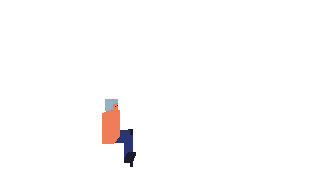
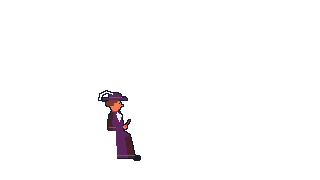
Ajout et test du Wagon 2

Changed region(s): [[0.2812, 0.5, 0.4375, 0.9444]]

diff --git a/index.html b/index.html
@@ -42,15 +42,22 @@
         <img class="wagon__calque wagon__personnage" src="assets/images/wagon-01/personnage-04.png" alt="Voyageur assis" data-nom="Paul" data-pensee="Duis aute irure dolor in reprehenderit.">
       </section>
 
-      <section class="wagon" data-titre="Dolor sit amet">
+      <!-- Wagon 02 : voiture-salon de 1re classe d'un train à vapeur (vers 1900).
+           Trois copies de la fumée, décalées dans le temps par main.js, pour un défilement continu.
+           Les lueurs des lampes sont posées sur l'intérieur, sous les voyageurs. -->
+      <section class="wagon" data-titre="Le Salon à vapeur">
+        <img class="wagon__calque wagon__fumee" src="assets/images/wagon-02/fumee.png" alt="">
+        <img class="wagon__calque wagon__fumee" src="assets/images/wagon-02/fumee.png" alt="">
+        <img class="wagon__calque wagon__fumee" src="assets/images/wagon-02/fumee.png" alt="">
         <img class="wagon__calque" src="assets/images/commun/passage.png" alt="">
         <img class="wagon__calque wagon__porte wagon__porte--gauche" src="assets/images/commun/porte-gauche.png" alt="">
         <img class="wagon__calque wagon__porte wagon__porte--droite" src="assets/images/commun/porte-droite.png" alt="">
-        <img class="wagon__calque" src="assets/images/wagon-02/interieur.png" alt="Intérieur du wagon, banquettes le long des parois">
-        <img class="wagon__calque wagon__personnage" src="assets/images/wagon-02/personnage-01.png" alt="Voyageur assis" data-nom="Lucie" data-pensee="Excepteur sint occaecat cupidatat non proident.">
-        <img class="wagon__calque wagon__personnage" src="assets/images/wagon-02/personnage-02.png" alt="Voyageur assis" data-nom="Hugo" data-pensee="Nemo enim ipsam voluptatem quia voluptas sit.">
-        <img class="wagon__calque wagon__personnage" src="assets/images/wagon-02/personnage-03.png" alt="Voyageur assis" data-nom="Rose" data-pensee="Neque porro quisquam est, qui dolorem ipsum.">
-        <img class="wagon__calque wagon__personnage" src="assets/images/wagon-02/personnage-04.png" alt="Voyageur assis" data-nom="Max" data-pensee="Quis autem vel eum iure reprehenderit.">
+        <img class="wagon__calque" src="assets/images/wagon-02/interieur.png" alt="Voiture-salon de luxe d'un train à vapeur : boiseries d'acajou, fauteuils de velours rouge, lampes à gaz">
+        <img class="wagon__calque wagon__lueur" src="assets/images/wagon-02/lueurs.png" alt="">
+        <img class="wagon__calque wagon__personnage" src="assets/images/wagon-02/personnage-01.png" alt="Monsieur en haut-de-forme" data-nom="Max" data-pensee="Quis autem vel eum iure reprehenderit.">
+        <img class="wagon__calque wagon__personnage" src="assets/images/wagon-02/personnage-02.png" alt="Dame au grand chapeau à plume" data-nom="Rose" data-pensee="Neque porro quisquam est, qui dolorem ipsum.">
+        <img class="wagon__calque wagon__personnage" src="assets/images/wagon-02/personnage-03.png" alt="Enfant en costume marin" data-nom="Lucie" data-pensee="Excepteur sint occaecat cupidatat non proident.">
+        <img class="wagon__calque wagon__personnage" src="assets/images/wagon-02/personnage-04.png" alt="Vieux monsieur à canne et monocle" data-nom="Hugo" data-pensee="Nemo enim ipsam voluptatem quia voluptas sit.">
       </section>
 
       <section class="wagon" data-titre="Consectetur">

diff --git a/js/main.js b/js/main.js
@@ -36,6 +36,15 @@ const VITESSE_ECRITURE = 0.025;
 // Respiration des voyageurs : intervalle aléatoire, en secondes
 const RESPIRATION_MIN = 2.5;
 const RESPIRATION_MAX = 5;
+// Fumée de la locomotive : temps pour qu'une bouffée passe du fond du paysage
+// jusqu'aux fenêtres les plus proches, en secondes, et agrandissement atteint à la fin
+const DUREE_FUMEE = 9;
+const ECHELLE_FUMEE = 3;
+// Lampes à gaz : opacité des halos (entre ces deux valeurs) et délai entre deux variations
+const LUEUR_MIN = 0.32;
+const LUEUR_MAX = 0.5;
+const LUEUR_DELAI_MIN = 0.08;
+const LUEUR_DELAI_MAX = 0.35;
 // Sans action pendant ce temps (en secondes), la porte clignote pour montrer où aller
 const DELAI_ATTENTE = 8;
 
@@ -612,6 +621,47 @@ function respirer(image) {
 }
 
 
+// Fumée de la locomotive : dans chaque wagon, les copies du calque wagon__fumee
+// s'agrandissent en boucle depuis le point de fuite, décalées dans le temps
+// pour qu'il y ait toujours des bouffées le long des fenêtres.
+// Chaque bouffée apparaît au loin, puis s'efface avant de sortir de l'écran.
+function lancerFumee() {
+  wagons.forEach((wagon) => {
+    const copies = wagon.querySelectorAll(".wagon__fumee");
+    copies.forEach((copie, i) => {
+      const passage = gsap.timeline({ repeat: -1 })
+        .fromTo(copie, { scale: 1 }, { scale: ECHELLE_FUMEE, duration: DUREE_FUMEE, ease: "power1.in" }, 0)
+        .fromTo(copie, { opacity: 0 }, { opacity: 1, duration: DUREE_FUMEE * 0.2, ease: "steps(3)" }, 0)
+        .to(copie, { opacity: 0, duration: DUREE_FUMEE * 0.3, ease: "steps(3)" }, DUREE_FUMEE * 0.7);
+      passage.progress(i / copies.length);
+    });
+  });
+}
+
+// Fumée immobile quand l'utilisateur préfère moins d'animations : une seule copie, visible.
+function poserFumee() {
+  wagons.forEach((wagon) => {
+    const copie = wagon.querySelector(".wagon__fumee");
+    if (copie) {
+      gsap.set(copie, { scale: 1.6, opacity: 1 });
+    }
+  });
+}
+
+// Flamme des lampes à gaz : l'opacité des halos varie un peu, sans cesse, par paliers.
+// lueur : élément img.wagon__lueur
+function vaciller(lueur) {
+  gsap.to(lueur, {
+    opacity: gsap.utils.random(LUEUR_MIN, LUEUR_MAX),
+    duration: 0.05,
+    ease: "steps(1)",
+    delay: gsap.utils.random(LUEUR_DELAI_MIN, LUEUR_DELAI_MAX),
+    onComplete: vaciller,
+    onCompleteParams: [lueur],
+  });
+}
+
+
 /* ==========================================================
    6. Écouteurs
    ========================================================== */
@@ -690,8 +740,12 @@ ouvrirAccueil();
 lancerPaysage();
 preparerPersonnages();
 
-if (!mouvementReduit) {
+if (mouvementReduit) {
+  poserFumee();
+} else {
   secouer();
   scintiller();
+  lancerFumee();
   document.querySelectorAll(".wagon__personnage").forEach(respirer);
+  document.querySelectorAll(".wagon__lueur").forEach(vaciller);
 }

diff --git a/css/style.css b/css/style.css
@@ -13,6 +13,8 @@
   --couleur-fondu: #1a1c2c;
   --couleur-lumiere: rgba(255, 205, 117, 0.08);
   --couleur-vignette: rgba(26, 28, 44, 0.35);
+  /* Opacité des halos de lampes (calques wagon__lueur), avant scintillement */
+  --opacite-lueur: 0.45;
   --couleur-pensee-fond: #f4f4f4;
   --couleur-pensee-texte: #1a1c2c;
   --couleur-pensee-bordure: #1a1c2c;
@@ -217,6 +219,20 @@ img {
     drop-shadow(calc(-1 * var(--pixel-source)) 0 0 var(--couleur-contour))
     drop-shadow(0 var(--pixel-source) 0 var(--couleur-contour))
     drop-shadow(0 calc(-1 * var(--pixel-source)) 0 var(--couleur-contour));
+}
+
+/* Fumée de la locomotive, dehors : main.js l'agrandit depuis le point de fuite (centre de la toile),
+   ce qui fait glisser les bouffées le long des fenêtres vers le spectateur */
+.wagon__fumee {
+  transform-origin: 50% 50%;
+  opacity: 0;
+}
+
+/* Halos des lampes : ajoutés à la lumière de l'image (mode écran), opacité réglée par main.js */
+.wagon__lueur {
+  mix-blend-mode: screen;
+  opacity: var(--opacite-lueur);
+  pointer-events: none;
 }
 
 /* Porte survolée : battants légèrement éclaircis */

diff --git a/DOCUMENTATION.md b/DOCUMENTATION.md
@@ -129,6 +129,8 @@ R.308---Multimedia/
     │   │   ├── personnage-01.png   un fichier par personnage
     │   │   └── personnage-02.png   ...
     │   ├── wagon-02/
+    │   │   ├── fumee.png           bouffées de vapeur dehors (calque facultatif, voir section 4)
+    │   │   └── lueurs.png          halos des lampes (calque facultatif, voir section 4)
     │   ├── wagon-03/
     │   └── wagon-04/
     └── sons/               fichiers audio (plus tard)
@@ -176,10 +178,16 @@ Ouvrir `assets/images/wagon-01/interieur.png` dans son logiciel donne tous ces r
 ### Ordre des calques (de l'arrière vers l'avant)
 
 1. `paysage-ciel.png`, puis `paysage-loin.png`, `paysage-milieu.png`, `paysage-proche.png` (derrière les fenêtres)
-2. `passage.png` (derrière la porte)
-3. `porte-gauche.png` et `porte-droite.png`
-4. `interieur.png` (avec trous transparents pour les fenêtres et la porte)
-5. `personnage-XX.png`, du plus éloigné au plus proche
+2. `fumee.png` (facultatif, classe `wagon__fumee`) : ce qui passe dehors, propre au wagon
+3. `passage.png` (derrière la porte)
+4. `porte-gauche.png` et `porte-droite.png`
+5. `interieur.png` (avec trous transparents pour les fenêtres et la porte)
+6. `lueurs.png` (facultatif, classe `wagon__lueur`) : halos des lampes
+7. `personnage-XX.png`, du plus éloigné au plus proche
+
+Calques facultatifs d'ambiance, utilisables par tous les wagons (le wagon 02 sert d'exemple) :
+- `wagon__fumee` : dessiné loin dehors, sur les plans du paysage (profondeur 3 à 6). `main.js` l'agrandit en boucle depuis le point de fuite, ce qui fait glisser son contenu le long des fenêtres vers le spectateur. Mettre trois fois la même image dans la section : les copies sont décalées dans le temps pour un défilement continu.
+- `wagon__lueur` : halos tramés (pixels pleins, un sur deux ou un sur quatre) autour des lampes. Le CSS les ajoute à l'image en mode écran (`mix-blend-mode: screen`) et `main.js` fait vaciller leur opacité comme une flamme.
 
 Les personnages sont toujours au-dessus de l'intérieur. Si un siège placé devant un voyageur doit le cacher en partie (banquette en travers, dossier), on dessine le voyageur **déjà découpé** : les pixels cachés par le siège sont transparents dans son calque. Ainsi seule sa partie visible réagit au survol.
 
@@ -267,8 +275,8 @@ Chaque wagon peut ajouter au maximum **3 couleurs propres** pour son ambiance. E
 - Durées communes, définies dans les réglages de `main.js` : ouverture de porte 0,7 s, fondu au noir 0,4 s, carton titre 1,5 s, écriture d'une pensée 0,025 s par lettre.
 - Pour garder l'aspect pixel art, les mouvements des calques utilisent l'easing `steps(n)` (déplacement pixel par pixel).
 - Un booléen `enAnimation` bloque toute nouvelle action tant qu'une transition est en cours.
-- Ambiance volontairement calme : le paysage défile en 120 s (loin), 60 s (milieu) et 30 s (proche) par largeur d'écran, la secousse revient toutes les 6 à 9 s, le scintillement toutes les 15 à 30 s. Ces réglages sont en haut de `main.js`.
-- Respect de `prefers-reduced-motion` : si l'utilisateur le demande, pas de secousses, de respiration ni de zoom, pensée affichée d'un coup et transitions raccourcies.
+- Ambiance volontairement calme : le paysage défile en 120 s (loin), 60 s (milieu) et 30 s (proche) par largeur d'écran, la secousse revient toutes les 6 à 9 s, le scintillement toutes les 15 à 30 s, une bouffée de fumée met 9 s à passer, les lampes vacillent toutes les 0,08 à 0,35 s. Ces réglages sont en haut de `main.js`.
+- Respect de `prefers-reduced-motion` : si l'utilisateur le demande, pas de secousses, de respiration, de fumée qui défile, de lampes qui vacillent ni de zoom, pensée affichée d'un coup et transitions raccourcies.
 
 ---
 
@@ -279,7 +287,7 @@ L'ordre de ce tableau est l'ordre du train.
 | N° | Dossier | Architecture (placeholder) | Histoire | Couleurs propres | Responsable | État |
 |---|---|---|---|---|---|---|
 | 01 | `wagon-01` | Voiture de 3e classe à vapeur (vers 1900) : compartiments ouverts, banquettes en bois face à face, poêle à charbon, toit à lanterneau, lampes suspendues. Voyageurs de face et de dos | Placeholder (Lorem ipsum) | aucune | à définir | placeholder |
-| 02 | `wagon-02` | Voiture-salon Pullman (années 1930) : fauteuils capitonnés face à l'allée, petites tables à lampe, boiseries, rideaux. Voyageurs de côté | Placeholder (Dolor sit amet) | aucune | à définir | placeholder |
+| 02 | `wagon-02` | Voiture-salon de 1re classe d'un train à vapeur (vers 1900) : voûte en acajou à caissons, filets de laiton, fenêtres cintrées à rideaux de velours et lambrequins, appliques et lampes à gaz, fauteuils de velours capitonnés, guéridons à nappe blanche, tapis d'Orient, tableaux au mur du fond. Dehors, la fumée de la locomotive passe devant les fenêtres. Voyageurs de côté, en tenue 1900 (enfant en marin, vieux monsieur à monocle, haut-de-forme, dame à chapeau à plume) | Le Salon à vapeur (pensées en Lorem ipsum) | acajou `#7a3b2e`, acajou sombre `#47212a`, laiton `#c98f3e` | à définir | illustration v1 |
 | 03 | `wagon-03` | Voiture Corail (années 1980) : rangées de sièges orange tournés vers la porte, têtières blanches, néons. Voyageurs de dos, tête au-dessus des dossiers | Placeholder (Consectetur) | aucune | à définir | placeholder |
 | 04 | `wagon-04` | Train du futur : sièges coques le long des parois, plafond arrondi, bandes lumineuses cyan, grandes baies. Voyageurs de côté | Placeholder (Adipiscing elit) | aucune | à définir | placeholder |
 
